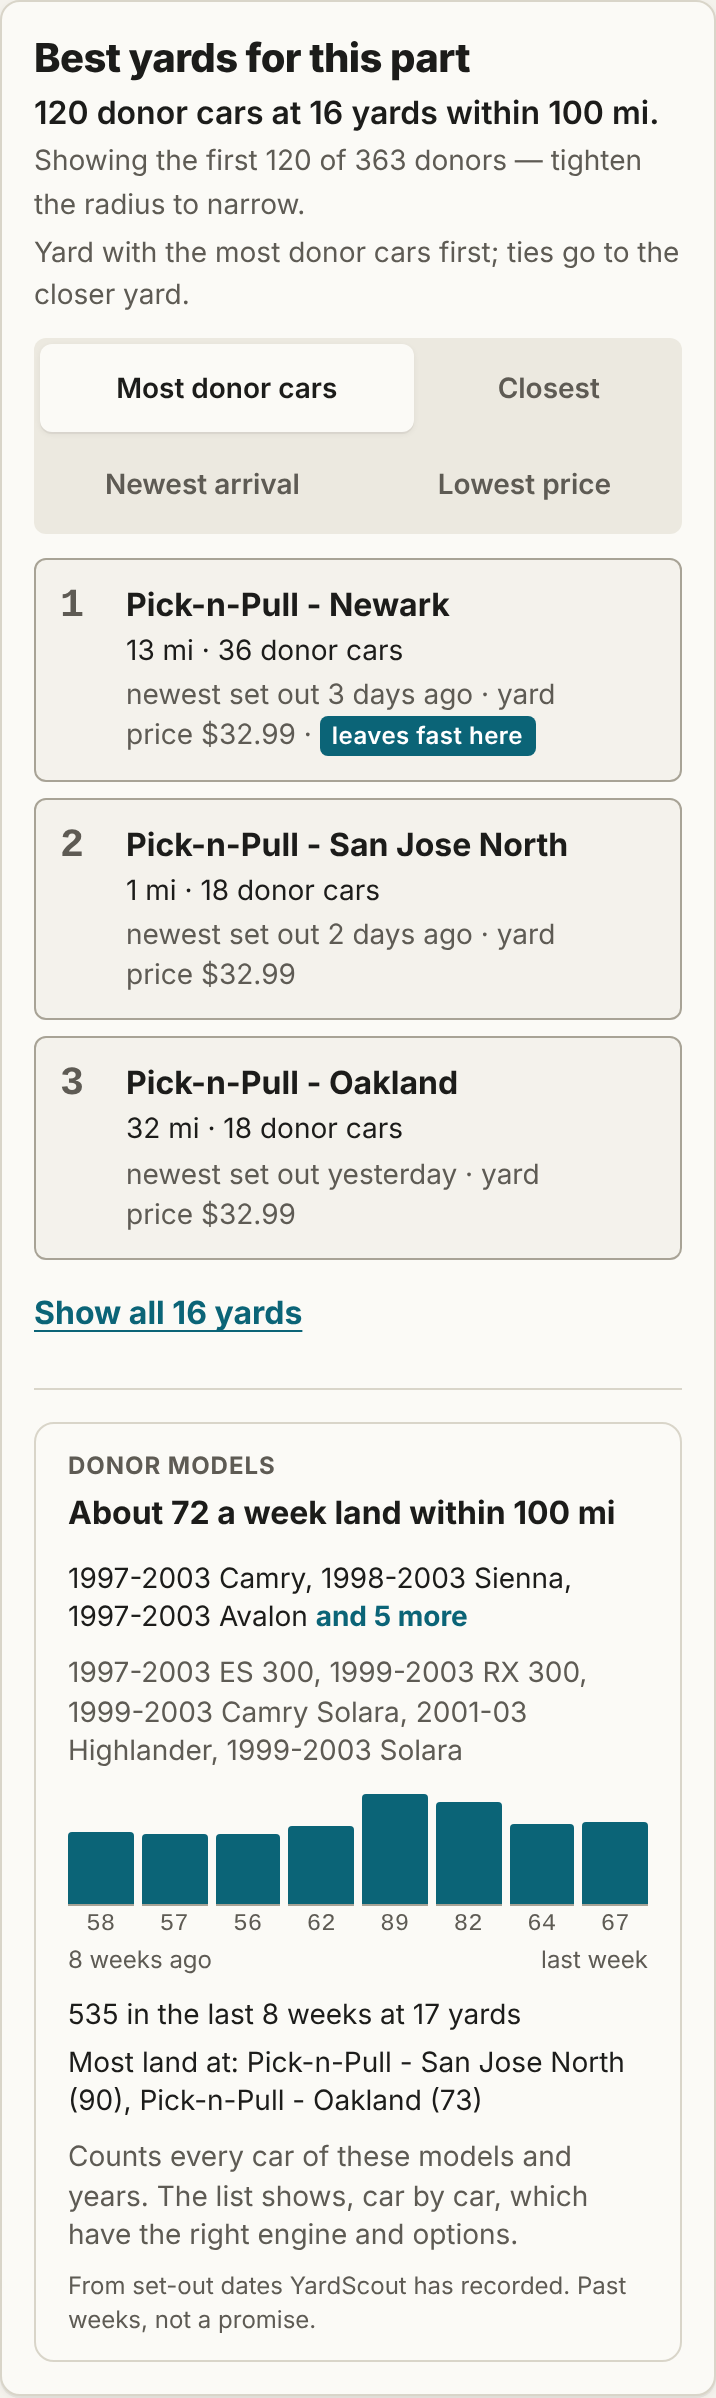
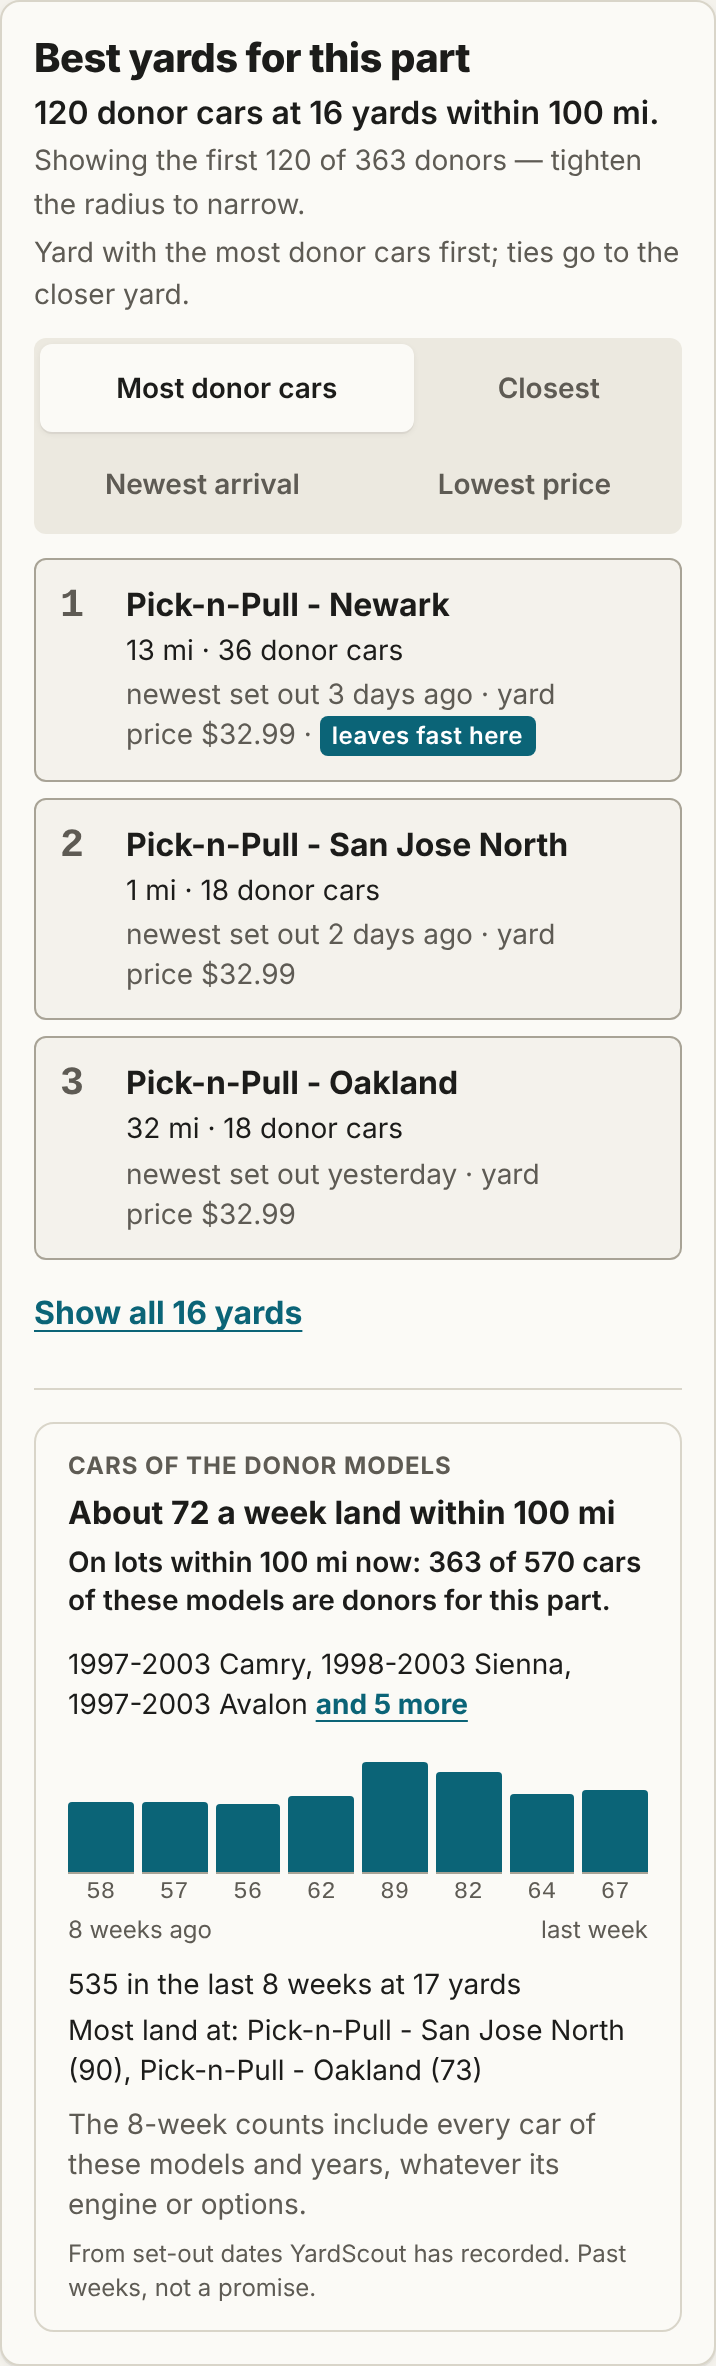
web: model labels keep their year span on one line; ops: screenshots and design note for the calibrated donor-model forecast
Claude-Session: https://claude.ai/code/session_01LsgNuWEh1vdaDCtdP1jxMM

diff --git a/docs/forecast.js b/docs/forecast.js
@@ -314,13 +314,18 @@
   /* compact (the Alerts tab's watch rows): the same subject, headline, facts
    * and label, and the eight bars small (no per-bar numbers; the bars keep the
    * same text alternative); no "Most land at" line. Nothing new is said. */
+  // A year span never breaks at its hyphen ("2003-" / "09 4Runner").
+  function labelHtml(l) {
+    var m = /^(\S+) (.*)$/.exec(l);
+    return m ? '<span class="ysf-yrs">' + esc(m[1]) + '</span> ' + esc(m[2]) : esc(l);
+  }
   function modelsHtml(w) {
-    var line = esc(w.models.join(', '));
+    var line = w.models.map(labelHtml).join(', ');
     if (!w.modelsMore.length) return '<p class="ysf-models">' + line + '</p>';
     var all = w.modelsMore.join(', ');
     return '<details class="ysf-models ysf-models-more"><summary title="' + esc(all) + '">' + line +
       ' <span class="ysf-more">and ' + w.modelsMore.length + ' more</span></summary>' +
-      '<p class="ysf-models-rest">' + esc(all) + '</p></details>';
+      '<p class="ysf-models-rest">' + w.modelsMore.map(labelHtml).join(', ') + '</p></details>';
   }
   function render(el, s, w, compact) {
     var max = Math.max.apply(null, s.weeks.concat([1]));

diff --git a/docs/styles.css b/docs/styles.css
@@ -3848,3 +3848,4 @@ select { white-space: normal; height: auto; }
 .ysf .ysf-models-rest { margin: 0 0 var(--s1); font-size: var(--t-sm); line-height: 1.4; color: var(--text-dim); overflow-wrap: anywhere; }
 .ysf .ysf-caveat { margin-top: var(--s2); font-size: var(--t-sm); line-height: 1.4; color: var(--text-dim); overflow-wrap: anywhere; }
 .ysf .ysf-lot { margin-top: var(--s1); font-size: var(--t-sm); line-height: 1.4; color: var(--text); font-weight: 600; overflow-wrap: anywhere; }
+.ysf-yrs { white-space: nowrap; }

diff --git a/ops/design.md b/ops/design.md
@@ -638,3 +638,15 @@ forecast half (`docs/forecast.js`, `YSForecast`) is another builder's.
   engine family's models overstates where the model had other engines
   (2002 ES 300 alternator: every 1997-2003 Camry, 4-cyl included); the
   caveat says so, but a decoded-engine split in the arrivals data would fix it.
+- **Calibration (hub review, same day; supersedes the strings above):**
+  subject "Cars of the donor models"; directly under the headline, from
+  today's lot (`pfPlanLotNow`, the app's own `pfAppMatches` over the specs
+  in use, after Verified-only): "On lots within R mi now: D of C cars of
+  these models are donors for this part." (D = the list's rows before the
+  120 cap among those cars, so D <= C; singular "is a donor" / "1 car";
+  no line when C is 0 or the numbers are missing). Caveat shortened to "The
+  8-week counts include every car of these models and years, whatever its
+  engine or options." Real data near 95112: 2004 4Runner alternator "About 6
+  a week" with 42 of 61; 2002 ES 300 alternator "About 72 a week" with 363
+  of 570. The ES 300 list itself offers "engine not confirmed" donors, so
+  its ratio still includes cars the decode cannot rule out.
